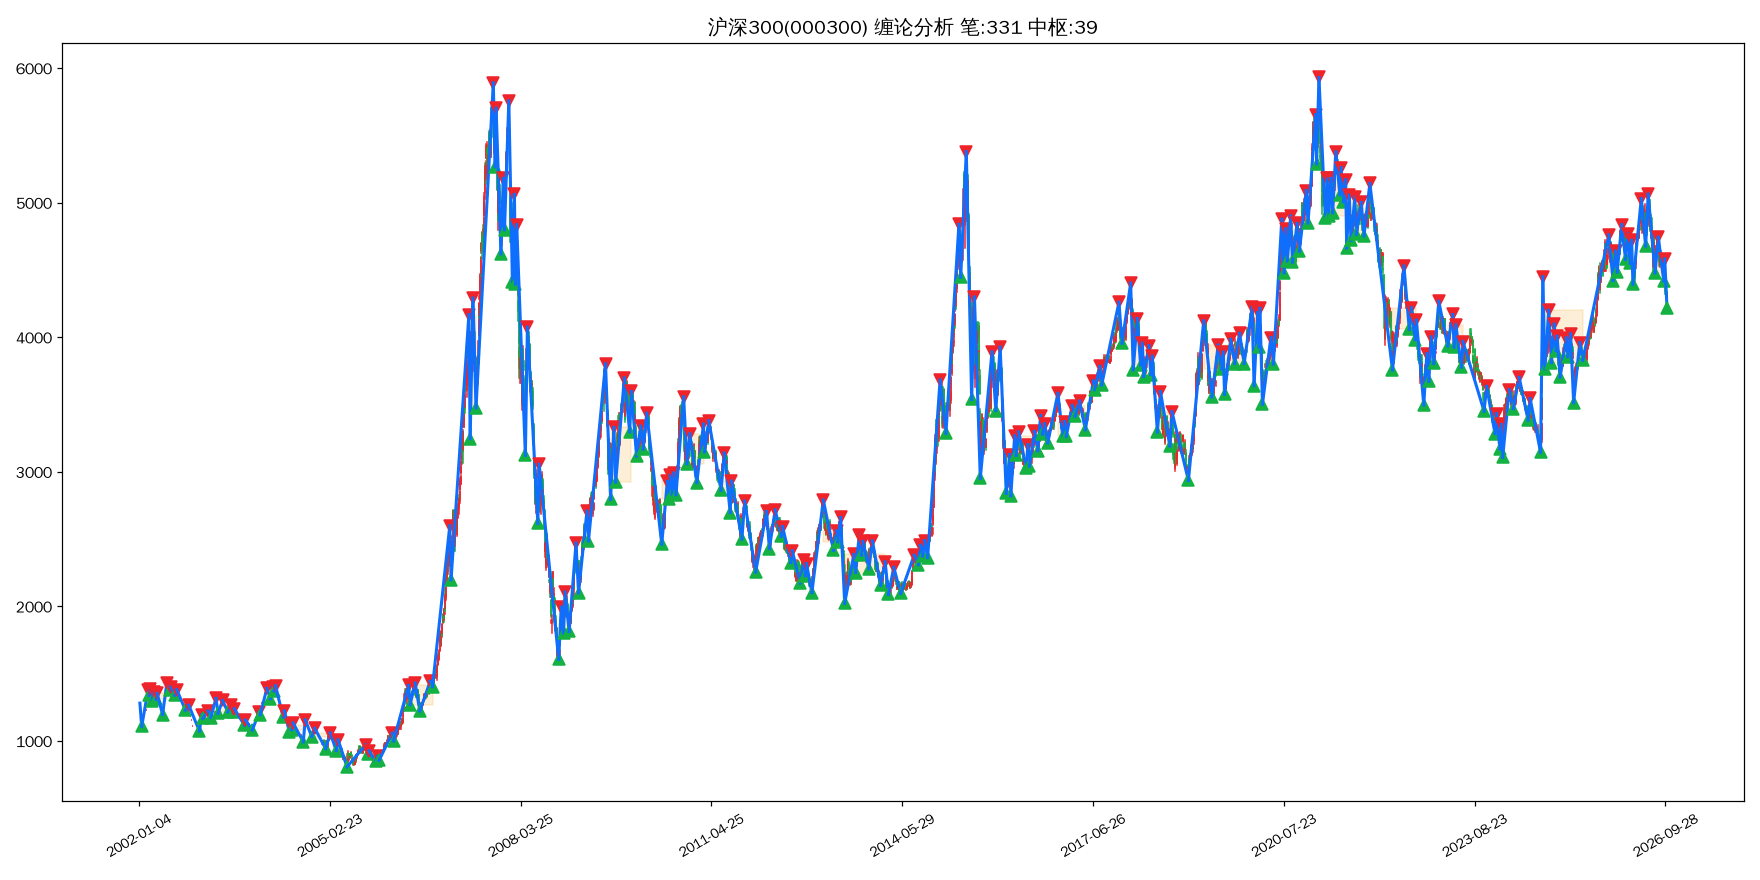
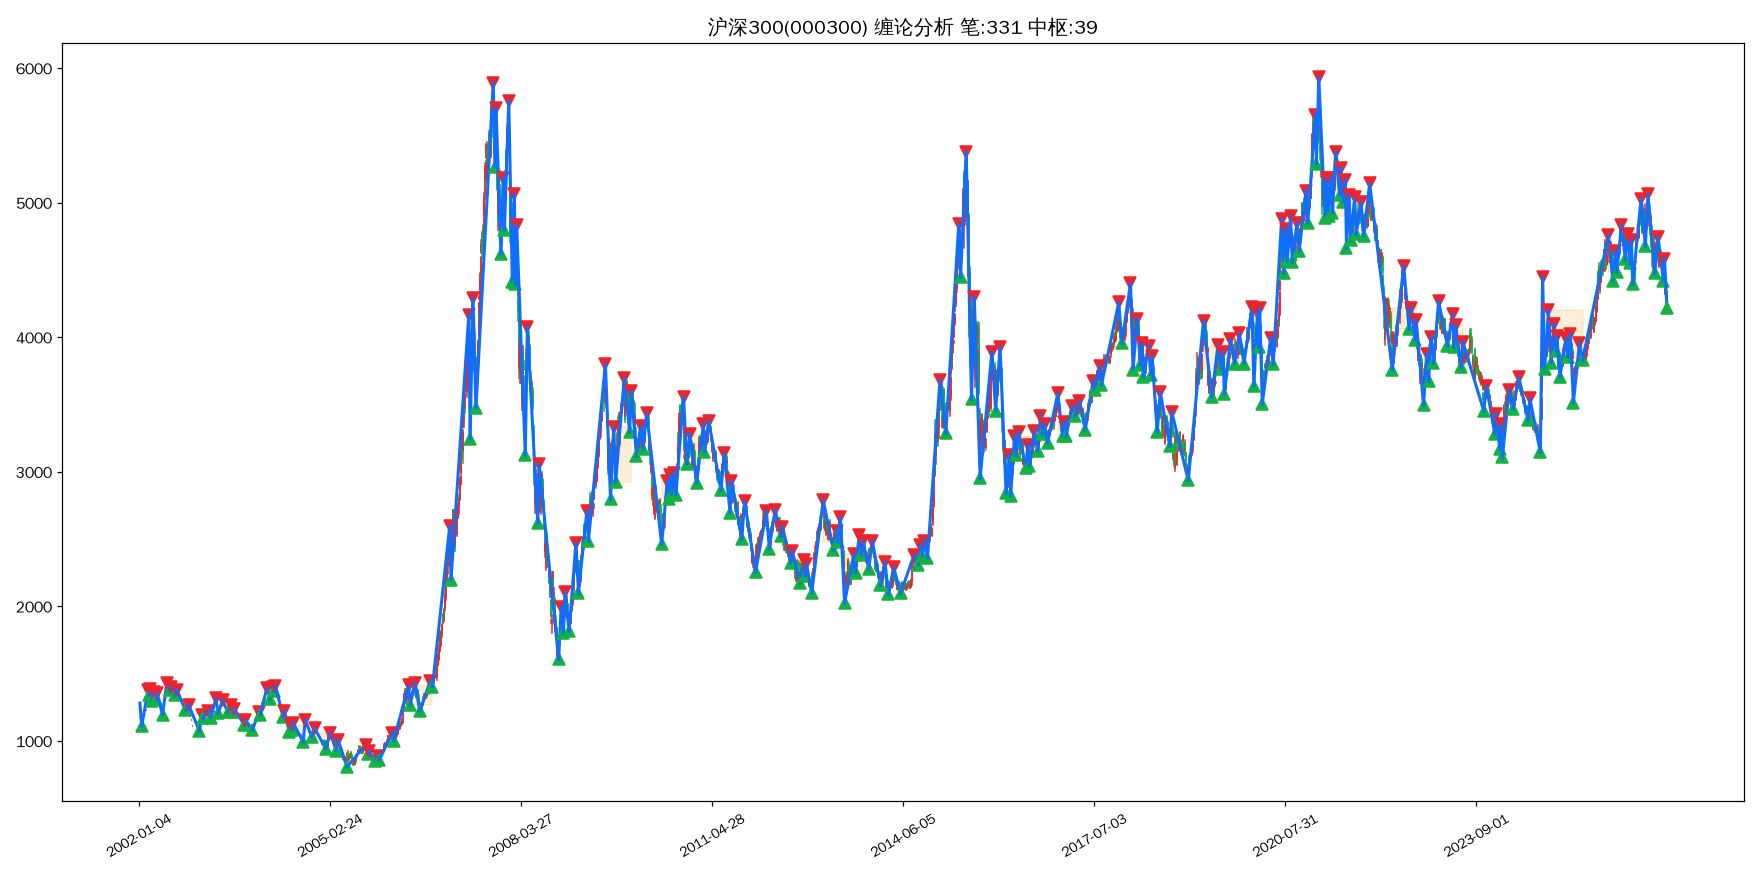
🤖 自动更新缠论分析报告与绘图

diff --git a/chan_report.md b/chan_report.md
@@ -119,8 +119,8 @@
 ![深证指数缠论图谱](chan_img/399001_深证指数.png)
 
 ## 创业板指（399006）
-- 最新收盘价：2958.344
-- 有效K线数量：3972
+- 最新收盘价：2866.763
+- 有效K线数量：3973
 - 笔总数：223 | 中枢总数：28
 - 最新一笔走势：下跌 | 2026-09-22~2026-10-13 | 3472.47 → 2860.80
 - 缠论背驰判断：**无背驰**
@@ -128,17 +128,17 @@
 ![创业板指缠论图谱](chan_img/399006_创业板指.png)
 
 ## 沪深300（000300）
-- 最新收盘价：4275.68
-- 有效K线数量：6007
+- 最新收盘价：4217.68
+- 有效K线数量：6008
 - 笔总数：331 | 中枢总数：39
-- 最新一笔走势：下跌 | 2026-09-22~2026-10-13 | 4583.38 → 4216.86
+- 最新一笔走势：下跌 | 2026-09-22~2026-10-14 | 4583.38 → 4214.01
 - 缠论背驰判断：**无背驰**
-- 三类买卖点识别：**买1p类@2003-11-18(1081.00)、买2类@2003-12-31(1194.74)、买3b类@2004-03-09(1314.17)、卖1类@2004-04-06(1410.43)、卖2,3b类@2004-06-01(1224.11)、买1p类@2005-06-06(839.00)、买2类@2005-09-28(903.72)、买2s类@2005-11-16(863.12)、买1p类@2008-11-04(1627.76)、买2类@2008-12-01(1864.20)、买2s类@2008-12-31(1817.72)、买3a类@2009-03-03(2142.15)、卖1类@2016-08-16(3378.24)、卖2类@2016-09-07(3340.82)、买1类@2019-01-04(3035.87)、买2,3b类@2019-05-27(3637.20)、买2s类@2019-07-22(3781.68)、买2s类@2019-08-06(3636.33)、买2s类@2019-10-09(3843.24)、买2s类@2019-11-29(3828.67)、卖1类@2020-01-14(4189.89)、卖2类@2020-02-21(4149.49)、卖2s类@2020-03-05(4206.73)、卖1p类@2021-02-18(5768.38)、卖2类@2021-04-06(5140.34)、卖2s类@2021-04-26(5077.24)、卖2s类@2021-05-27(5338.23)、卖2s类@2021-06-28(5251.76)、卖2s类@2021-07-22(5151.75)、买1类@2021-07-28(4760.48)、买2类@2021-08-20(4769.27)、买2s类@2021-09-22(4821.77)、买2s类@2021-11-10(4821.19)、买1类@2022-10-31(3508.70)、买2类@2022-11-28(3733.24)、买2s类@2022-12-23(3828.22)、卖1类@2023-01-30(4201.35)、卖2类@2023-04-18(4162.03)、卖2s类@2023-05-09(4027.88)、卖2s类@2023-06-16(3963.35)、卖3a类@2023-11-06(3632.61)、买1类@2024-02-02(3179.63)、买2,3b类@2024-04-12(3475.84)、卖1类@2026-01-13(4761.03)、卖2类@2026-02-25(4735.89)、卖2s类@2026-03-17(4637.44)、买1类@2026-10-13(4275.68)**
+- 三类买卖点识别：**买1p类@2003-11-18(1081.00)、买2类@2003-12-31(1194.74)、买3b类@2004-03-09(1314.17)、卖1类@2004-04-06(1410.43)、卖2,3b类@2004-06-01(1224.11)、买1p类@2005-06-06(839.00)、买2类@2005-09-28(903.72)、买2s类@2005-11-16(863.12)、买1p类@2008-11-04(1627.76)、买2类@2008-12-01(1864.20)、买2s类@2008-12-31(1817.72)、买3a类@2009-03-03(2142.15)、卖1类@2016-08-16(3378.24)、卖2类@2016-09-07(3340.82)、买1类@2019-01-04(3035.87)、买2,3b类@2019-05-27(3637.20)、买2s类@2019-07-22(3781.68)、买2s类@2019-08-06(3636.33)、买2s类@2019-10-09(3843.24)、买2s类@2019-11-29(3828.67)、卖1类@2020-01-14(4189.89)、卖2类@2020-02-21(4149.49)、卖2s类@2020-03-05(4206.73)、卖1p类@2021-02-18(5768.38)、卖2类@2021-04-06(5140.34)、卖2s类@2021-04-26(5077.24)、卖2s类@2021-05-27(5338.23)、卖2s类@2021-06-28(5251.76)、卖2s类@2021-07-22(5151.75)、买1类@2021-07-28(4760.48)、买2类@2021-08-20(4769.27)、买2s类@2021-09-22(4821.77)、买2s类@2021-11-10(4821.19)、买1类@2022-10-31(3508.70)、买2类@2022-11-28(3733.24)、买2s类@2022-12-23(3828.22)、卖1类@2023-01-30(4201.35)、卖2类@2023-04-18(4162.03)、卖2s类@2023-05-09(4027.88)、卖2s类@2023-06-16(3963.35)、卖3a类@2023-11-06(3632.61)、买1类@2024-02-02(3179.63)、买2,3b类@2024-04-12(3475.84)、卖1类@2026-01-13(4761.03)、卖2类@2026-02-25(4735.89)、卖2s类@2026-03-17(4637.44)、买1类@2026-10-14(4217.68)**
 ![沪深300缠论图谱](chan_img/000300_沪深300.png)
 
 ## 上证50（000016）
-- 最新收盘价：2807.42
-- 有效K线数量：5529
+- 最新收盘价：2776.92
+- 有效K线数量：5530
 - 笔总数：298 | 中枢总数：31
 - 最新一笔走势：下跌 | 2026-07-10~2026-10-09 | 3026.43 → 2772.88
 - 缠论背驰判断：**无背驰**
